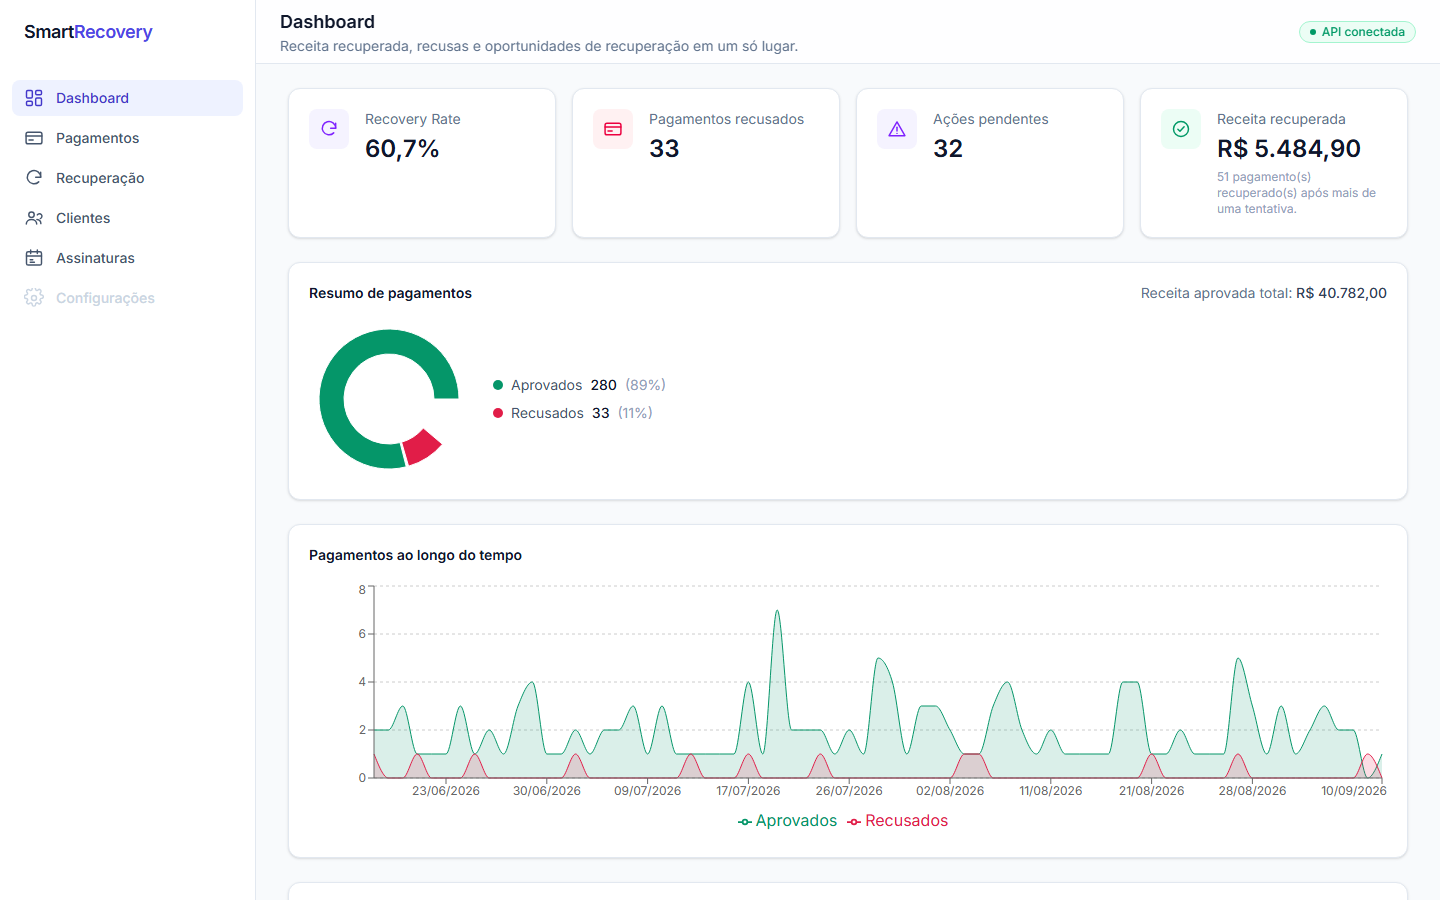
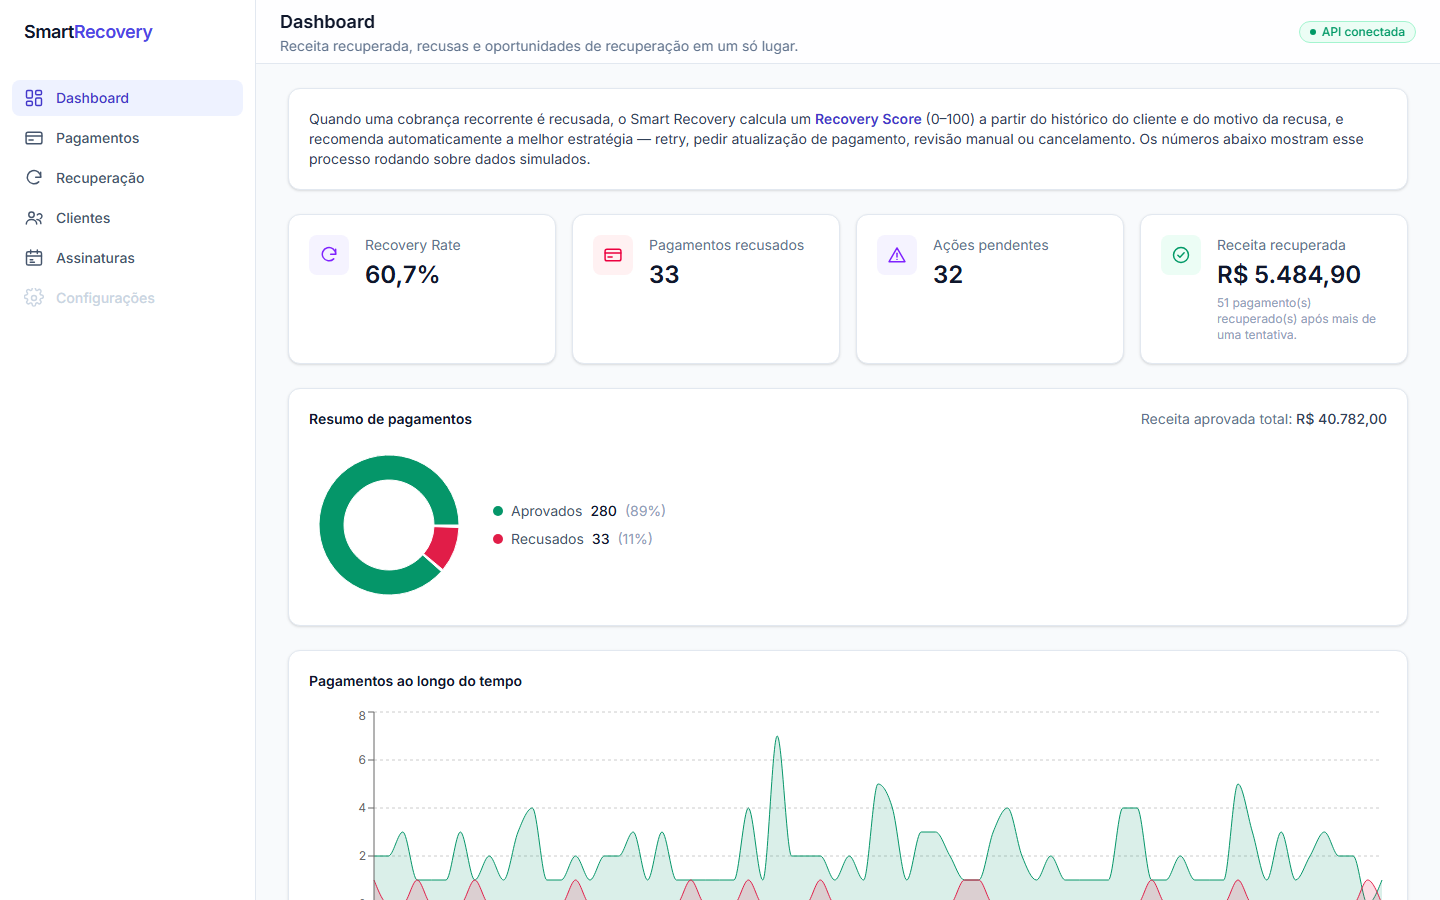
melhorias visuais

diff --git a/frontend/src/components/DashboardIntro.tsx b/frontend/src/components/DashboardIntro.tsx
@@ -1,0 +1,20 @@
+import { Card } from '@/components/ui/Card'
+
+/**
+ * Explica o propósito do produto para quem abre o Dashboard pela primeira vez — recrutadores e
+ * avaliadores não necessariamente conhecem o domínio de recuperação de pagamentos recorrentes.
+ * Fica só no Dashboard (a "porta de entrada" do app) para não repetir a mesma explicação em toda página.
+ */
+export function DashboardIntro() {
+  return (
+    <Card className="border-brand-100 bg-brand-50/40">
+      <p className="text-sm text-slate-700">
+        Quando uma cobrança recorrente é recusada, o Smart Recovery calcula um{' '}
+        <span className="font-semibold text-brand-700">Recovery Score</span> (0–100) a partir do histórico do
+        cliente e do motivo da recusa, e recomenda automaticamente a melhor estratégia — retry, pedir
+        atualização de pagamento, revisão manual ou cancelamento. Os números abaixo mostram esse processo
+        rodando sobre dados simulados.
+      </p>
+    </Card>
+  )
+}

diff --git a/frontend/src/pages/DashboardPage.tsx b/frontend/src/pages/DashboardPage.tsx
@@ -1,3 +1,4 @@
+import { DashboardIntro } from '@/components/DashboardIntro'
 import { DashboardSummarySection } from '@/components/DashboardSummarySection'
 import { DeclineReasonsChart } from '@/components/DeclineReasonsChart'
 import { PaymentsTrendChart } from '@/components/PaymentsTrendChart'
@@ -15,6 +16,7 @@ export function DashboardPage() {
 
   return (
     <div className="space-y-6">
+      <DashboardIntro />
       <DashboardSummarySection state={summaryState} />
       <PaymentsTrendChart state={trendState} />
       <DeclineReasonsChart state={declineReasonsState} />

diff --git a/README.md b/README.md
@@ -1,10 +1,16 @@
 # Smart Recovery
 
-Plataforma de recuperação inteligente de pagamentos recorrentes, construída com C# / .NET 8 e React/TypeScript.
+Projeto de portfólio em C# / .NET 8 (Clean Architecture) + React/TypeScript, para praticar um domínio
+não trivial: recuperação de pagamentos recorrentes recusados.
 
-Quando uma cobrança recorrente falha, o Smart Recovery analisa o histórico do cliente e o motivo da recusa, calcula um **Recovery Score** explicável (0–100) e recomenda automaticamente a melhor estratégia de recuperação — retry, atualização de forma de pagamento, revisão manual ou cancelamento da assinatura.
+O sistema simula o ciclo de cobrança de uma assinatura — quando um pagamento é recusado, calcula um
+**Recovery Score** explicável (0–100) a partir do histórico do cliente e do motivo da recusa, e
+recomenda uma ação (retry, pedir atualização de forma de pagamento, revisão manual ou cancelamento da
+assinatura).
 
-Projeto de portfólio: dados simulados, sem gateway de pagamento real, sem autenticação (ver [Limitações conhecidas](#limitações-conhecidas)).
+![Dashboard do Smart Recovery](docs/screenshots/dashboard.png)
+
+Dados simulados, sem gateway de pagamento real e sem autenticação — ver [Limitações conhecidas](#limitações-conhecidas).
 
 ## Arquitetura
 
